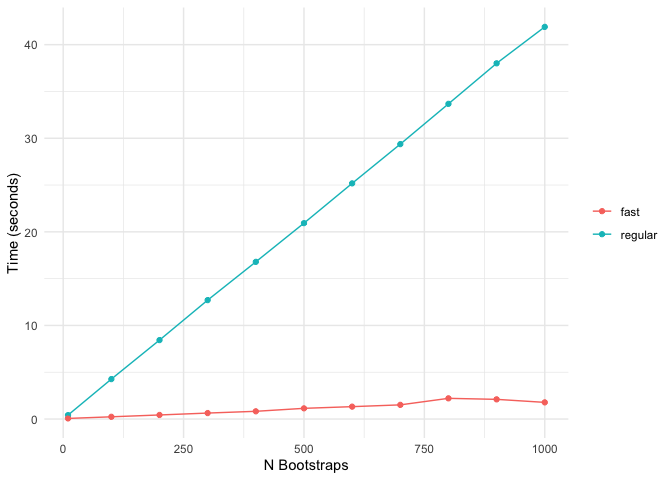
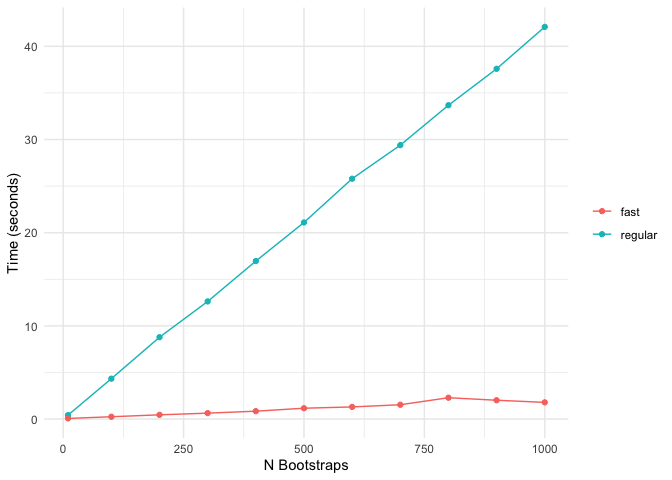
Update README :book:

diff --git a/README.md b/README.md
@@ -31,7 +31,7 @@ You can install the development version from
 
 ``` r
 # install.packages("pak")
-pak::pkg_install("tidyverse/tibble")
+pak::pkg_install("dmolitor/bolasso@dev")
 ```
 
 ## Usage
@@ -482,8 +482,8 @@ cat(
   "\nSequential bolasso time (seconds):",
   round(time_sequential[[3]], 3)
 )
-#> Parallel bolasso time (seconds): 10.614 
-#> Sequential bolasso time (seconds): 42.022
+#> Parallel bolasso time (seconds): 10.667 
+#> Sequential bolasso time (seconds): 41.962
 ```
 
 ## References
